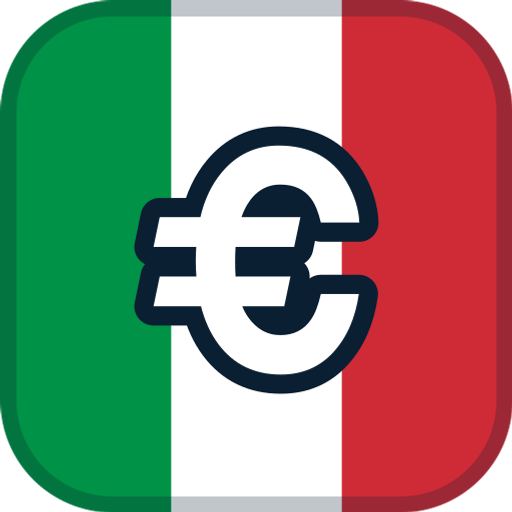
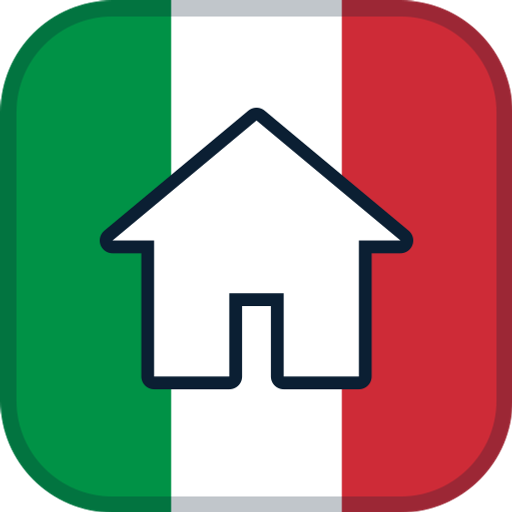
Icône drapeau : symbole propre au sujet (maison), distinct des autres sites du pays (RECETTE §19.1)

Changed region(s): [[0.1875, 0.1875, 0.8125, 0.7812]]

diff --git a/scripts/gen-flag-icon.py b/scripts/gen-flag-icon.py
@@ -1,7 +1,9 @@
 """Favicon et logo aux couleurs du drapeau du pays — RECETTE §19.1 (règle du 2026-10-04).
 
 Usage : python3 gen-flag-icon.py <code-pays> <symbole> [dossier-site]
-        symbole : un texte court (€, zł, $, kr…) ou « maison » pour une icône de maison.
+        symbole : un texte court (€, zł, $, kr, ALG…) ou un pictogramme : « maison », « eclair ».
+Deux sites du même pays ne partagent jamais le même dessin : la devise va au site principal,
+les autres prennent le sigle ou le pictogramme de leur sujet (registre : _trame/icones-drapeau.txt).
 Écrit public/favicon.svg et public/logo.svg, puis lancer `node scripts/gen-icons.mjs`
 pour les PNG et l'ICO.
 
@@ -32,6 +34,17 @@ FLAGS = {
     'gr': ('gr', ['#0D5EAF', '#FFFFFF']),
     'ch': ('ch', ['#DA291C', '#FFFFFF']),
     'pt': ('pt', ['#046A38', '#DA291C']),                  # sans la sphère armillaire
+    'se': ('nordic', ['#006AA7', '#FECC02', None]),
+    'dk': ('nordic', ['#C8102E', '#FFFFFF', None]),
+    'no': ('nordic', ['#BA0C2F', '#FFFFFF', '#00205B']),
+    'gb': ('gb', ['#012169', '#FFFFFF', '#C8102E']),
+    'us': ('us', ['#B22234', '#FFFFFF', '#3C3B6E']),       # bandes et canton, sans étoiles détaillées
+    'ca': ('ca', ['#D80621', '#FFFFFF']),                  # bandes rouges, sans la feuille
+    'au': ('stars', ['#012169', '#FFFFFF']),               # fond bleu et Croix du Sud stylisée
+    'nz': ('stars', ['#012169', '#CC142B']),
+    'sg': ('h', ['#EF3340', '#FFFFFF']),                   # sans croissant ni étoiles
+    'ae': ('ae', ['#00732F', '#FFFFFF', '#000000', '#FF0000']),
+    'br': ('br', ['#009739', '#FEDD00', '#012169']),       # losange et globe, sans devise ni étoiles
 }
 
 HOUSE = '<path d="M16 7.5 7 15h2.6v8.5h4.7v-5.2h3.4v5.2h4.7V15H25z" fill="#fff" stroke="#0B1F33" stroke-width="1.6" stroke-linejoin="round" paint-order="stroke"/>'
@@ -53,12 +66,42 @@ def bands(code):
         r, w = cols; return f'<rect width="32" height="32" fill="{r}"/><rect x="13" y="6" width="6" height="20" fill="{w}"/><rect x="6" y="13" width="20" height="6" fill="{w}"/>'
     if kind == 'pt':
         g, r = cols; return f'<rect width="32" height="32" fill="{r}"/><rect width="12.8" height="32" fill="{g}"/>'
+    if kind == 'nordic':  # croix scandinave décalée vers la hampe
+        bg, cr, inner = cols
+        out = f'<rect width="32" height="32" fill="{bg}"/><rect x="9" width="7" height="32" fill="{cr}"/><rect y="12.5" width="32" height="7" fill="{cr}"/>'
+        if inner: out += f'<rect x="10.75" width="3.5" height="32" fill="{inner}"/><rect y="14.25" width="32" height="3.5" fill="{inner}"/>'
+        return out
+    if kind == 'gb':
+        b, w, r = cols
+        return (f'<rect width="32" height="32" fill="{b}"/><path d="M0 0L32 32M32 0L0 32" stroke="{w}" stroke-width="6.4"/>'
+                f'<path d="M0 0L32 32M32 0L0 32" stroke="{r}" stroke-width="2.2"/><rect x="12" width="8" height="32" fill="{w}"/>'
+                f'<rect y="12" width="32" height="8" fill="{w}"/><rect x="13.6" width="4.8" height="32" fill="{r}"/><rect y="13.6" width="32" height="4.8" fill="{r}"/>')
+    if kind == 'us':
+        r, w, b = cols; s = ''.join(f'<rect y="{i*32/13:.3f}" width="32" height="{32/13+0.05:.3f}" fill="{r if i % 2 == 0 else w}"/>' for i in range(13))
+        return s + f'<rect width="14" height="{32/13*7:.3f}" fill="{b}"/>'
+    if kind == 'ca':
+        r, w = cols; return f'<rect width="32" height="32" fill="{w}"/><rect width="8" height="32" fill="{r}"/><rect x="24" width="8" height="32" fill="{r}"/>'
+    if kind == 'stars':
+        b, st = cols
+        dots = ''.join(f'<circle cx="{x}" cy="{y}" r="{rr}" fill="{st}" stroke="#FFFFFF" stroke-width="{0.6 if st != "#FFFFFF" else 0}"/>' for x, y, rr in [(25, 6, 1.6), (21, 15, 1.5), (28, 16, 1.5), (25, 26, 1.8)])
+        return f'<rect width="32" height="32" fill="{b}"/>' + dots
+    if kind == 'ae':
+        g, w, k, r = cols
+        return f'<rect width="32" height="32" fill="{w}"/><rect width="32" height="10.7" fill="{g}"/><rect y="21.3" width="32" height="10.7" fill="{k}"/><rect width="9" height="32" fill="{r}"/>'
+    if kind == 'br':
+        g, y, b = cols
+        return f'<rect width="32" height="32" fill="{g}"/><path d="M16 4 30 16 16 28 2 16z" fill="{y}"/><circle cx="16" cy="16" r="6.5" fill="{b}"/>'
     raise SystemExit(f'drapeau inconnu : {code}')
+
+
+BOLT = '<path d="M19.5 3 7 18h7.5L12 29 25 13.5h-7.5L20.5 3z" fill="#fff" stroke="#0B1F33" stroke-width="1.6" stroke-linejoin="round" paint-order="stroke"/>'
 
 
 def symbol(sym, code):
     if sym == 'maison':
         return HOUSE
+    if sym == 'eclair':
+        return BOLT
     size = 19 if len(sym) == 1 else 14 if len(sym) == 2 else 11
     y = 23 if len(sym) == 1 else 21.5
     # Texte blanc cerné de sombre : lisible sur les bandes claires comme foncées, jusqu'à 16 px.
